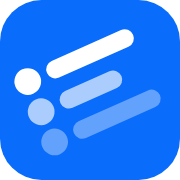
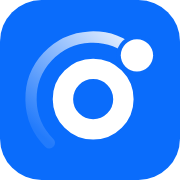
feat(ui): refined oksocial mark; quieter account picker and login dialog
- New mark: an 'o' ring (you) and one account on an orbit that brightens towards it, on the brand-blue
  tile. Shares okchat's visual language only, not its mark. Favicon, logo, touch and app icons follow.
- 添加账号: no question-mark badge on every platform; the hover tooltip stays.
- Login dialog: no exit IP line and no proxy advice: users don't need to know.

diff --git a/apps/frontend/src/components/ui/ok.mark.tsx b/apps/frontend/src/components/ui/ok.mark.tsx
@@ -7,12 +7,12 @@ import React, { FC, useId } from 'react';
 export const WORDMARK_FONT = "'IBM Plex Mono', ui-monospace, 'SF Mono', Menlo, Consolas, monospace";
 
 /**
- * The oksocial mark, okchat's sibling: the same brand-blue tile (rx 118 of 512) and tilted ledger bars
- * with fading opacity, each row led by an avatar dot, so the bars read as a feed of posts.
- * Kept in sync with public/favicon.svg and public/logo.svg.
+ * The oksocial mark: an "o" ring (you) and one account on an orbit that brightens towards it (your
+ * reach), on okchat's brand-blue tile (rx 118 of 512). Only okchat's visual language is shared, not
+ * its mark. Kept in sync with public/favicon.svg and public/logo.svg.
  */
 export const OkMark: FC<{ size?: number; className?: string; title?: string }> = ({ size = 28, className, title }) => {
-  const clip = `okmark-${useId().replace(/:/g, '')}`;
+  const id = `okmark-${useId().replace(/:/g, '')}`;
   return (
     <svg
       xmlns="http://www.w3.org/2000/svg"
@@ -25,20 +25,21 @@ export const OkMark: FC<{ size?: number; className?: string; title?: string }> =
       aria-hidden={title ? undefined : true}
     >
       <defs>
-        <clipPath id={clip}>
+        <clipPath id={`${id}-c`}>
           <rect width="512" height="512" rx="118" />
         </clipPath>
+        <linearGradient id={`${id}-g`} gradientUnits="userSpaceOnUse" x1="140.5" y1="406.5" x2="380.5" y2="149.2">
+          <stop offset="0" stopColor="#fff" stopOpacity="0.1" />
+          <stop offset="1" stopColor="#fff" stopOpacity="0.85" />
+        </linearGradient>
       </defs>
-      <g clipPath={`url(#${clip})`}>
+      <g clipPath={`url(#${id}-c)`}>
         <rect width="512" height="512" fill="#0A6CFB" />
-        <g transform="rotate(-24 256 256)" fill="#fff">
-          <circle cx="104" cy="162" r="38" />
-          <rect x="164" y="136" width="268" height="52" rx="26" />
-          <circle cx="104" cy="256" r="38" opacity=".66" />
-          <rect x="164" y="230" width="190" height="52" rx="26" opacity=".66" />
-          <circle cx="104" cy="350" r="38" opacity=".36" />
-          <rect x="164" y="324" width="268" height="52" rx="26" opacity=".36" />
-        </g>
+        <path d="M 140.5 406.5 A 176 176 0 0 1 380.5 149.2" fill="none" stroke={`url(#${id}-g)`} strokeWidth="32" strokeLinecap="round" />
+        <circle cx="265" cy="282" r="86" fill="none" stroke="#fff" strokeWidth="58" />
+        {/* a ring of the tile's blue keeps the account clear of the orbit's bright end */}
+        <circle cx="389.5" cy="157.5" r="58" fill="#0A6CFB" />
+        <circle cx="389.5" cy="157.5" r="46" fill="#fff" />
       </g>
     </svg>
   );

diff --git a/apps/frontend/src/components/launches/browser.login.modal.tsx b/apps/frontend/src/components/launches/browser.login.modal.tsx
@@ -56,8 +56,6 @@ export const BrowserLoginModal: FC<{
   // the 2nd step is being opened (the poll and 我已登录 can both see the first login finish)
   const advancing = useRef(false);
   const app = SCAN_APP[identifier] && t(`scan_app_${identifier}`, SCAN_APP[identifier]);
-  // the exit IP a new overseas account's browser started behind (the server picks the team's)
-  const [exit, setExit] = useState<string | null>(null);
   // a password platform: oksocial's own login form types the account and password into its browser
   const [form, setForm] = useState(false);
 
@@ -160,8 +158,7 @@ export const BrowserLoginModal: FC<{
     if (!res.ok) {
       return fail(res);
     }
-    const { id, screenPath, proxy, form: withForm } = await res.json();
-    setExit(proxy ?? null);
+    const { id, screenPath, form: withForm } = await res.json();
     setForm(!!withForm);
     show({ kind: 'login', id, screenPath });
   }, [fail, show]);
@@ -236,11 +233,6 @@ export const BrowserLoginModal: FC<{
             '这个账号有自己专属的浏览器。请在下面登录{{name}}，登录成功后会自动连接。',
             { name }
           )}
-          {exit && (
-            <span className="block mt-[4px] text-[13px] text-textItemBlur">
-              {t('browser_login_exit', '出口 IP：{{name}}（登录、发帖、互动都走这个 IP）', { name: exit, interpolation: { escapeValue: false } })}
-            </span>
-          )}
         </p>
       )}
       {step?.screenPath ? (
@@ -284,11 +276,11 @@ export const BrowserLoginModal: FC<{
         {typed
           ? t(
               'browser_login_note_form',
-              '密码只用于这一次登录，直接填进这个账号自己的浏览器，oksocial 不保存。建议在“代理”里为要发帖、评论的账号绑定独立出口 IP。'
+              '密码只用于这一次登录，直接填进这个账号自己的浏览器，oksocial 不保存。'
             )
           : t(
               'browser_login_note',
-              '登录信息只保存在这个账号自己的浏览器里，oksocial 不接触你的密码。建议在“代理”里为要发帖、评论的账号绑定独立出口 IP。'
+              '登录信息只保存在这个账号自己的浏览器里，oksocial 不接触你的密码。'
             )}
       </p>
     </div>

diff --git a/apps/frontend/src/components/launches/add.provider.component.tsx b/apps/frontend/src/components/launches/add.provider.component.tsx
@@ -793,21 +793,6 @@ export const AddProviderComponent: FC<{
                   )}
                 >
                   {item.name}
-                  {!!item.toolTip && !isMobile && (
-                    <svg
-                      width="15"
-                      height="15"
-                      viewBox="0 0 26 26"
-                      fill="none"
-                      xmlns="http://www.w3.org/2000/svg"
-                      className="absolute top-[10px] end-[10px]"
-                    >
-                      <path
-                        d="M13 0C10.4288 0 7.91543 0.762437 5.77759 2.1909C3.63975 3.61935 1.97351 5.64968 0.989572 8.02512C0.0056327 10.4006 -0.251811 13.0144 0.249797 15.5362C0.751405 18.0579 1.98953 20.3743 3.80762 22.1924C5.6257 24.0105 7.94208 25.2486 10.4638 25.7502C12.9856 26.2518 15.5995 25.9944 17.9749 25.0104C20.3503 24.0265 22.3807 22.3603 23.8091 20.2224C25.2376 18.0846 26 15.5712 26 13C25.9964 9.5533 24.6256 6.24882 22.1884 3.81163C19.7512 1.37445 16.4467 0.00363977 13 0ZM13 21C12.7033 21 12.4133 20.912 12.1667 20.7472C11.92 20.5824 11.7277 20.3481 11.6142 20.074C11.5007 19.7999 11.471 19.4983 11.5288 19.2074C11.5867 18.9164 11.7296 18.6491 11.9393 18.4393C12.1491 18.2296 12.4164 18.0867 12.7074 18.0288C12.9983 17.9709 13.2999 18.0007 13.574 18.1142C13.8481 18.2277 14.0824 18.42 14.2472 18.6666C14.412 18.9133 14.5 19.2033 14.5 19.5C14.5 19.8978 14.342 20.2794 14.0607 20.5607C13.7794 20.842 13.3978 21 13 21ZM14 14.91V15C14 15.2652 13.8946 15.5196 13.7071 15.7071C13.5196 15.8946 13.2652 16 13 16C12.7348 16 12.4804 15.8946 12.2929 15.7071C12.1054 15.5196 12 15.2652 12 15V14C12 13.7348 12.1054 13.4804 12.2929 13.2929C12.4804 13.1054 12.7348 13 13 13C14.6538 13 16 11.875 16 10.5C16 9.125 14.6538 8 13 8C11.3463 8 10 9.125 10 10.5V11C10 11.2652 9.89465 11.5196 9.70711 11.7071C9.51958 11.8946 9.26522 12 9.00001 12C8.73479 12 8.48044 11.8946 8.2929 11.7071C8.10536 11.5196 8.00001 11.2652 8.00001 11V10.5C8.00001 8.01875 10.2425 6 13 6C15.7575 6 18 8.01875 18 10.5C18 12.6725 16.28 14.4913 14 14.91Z"
-                        fill="currentColor"
-                      />
-                    </svg>
-                  )}
                 </div>
               </div>
             ))}
